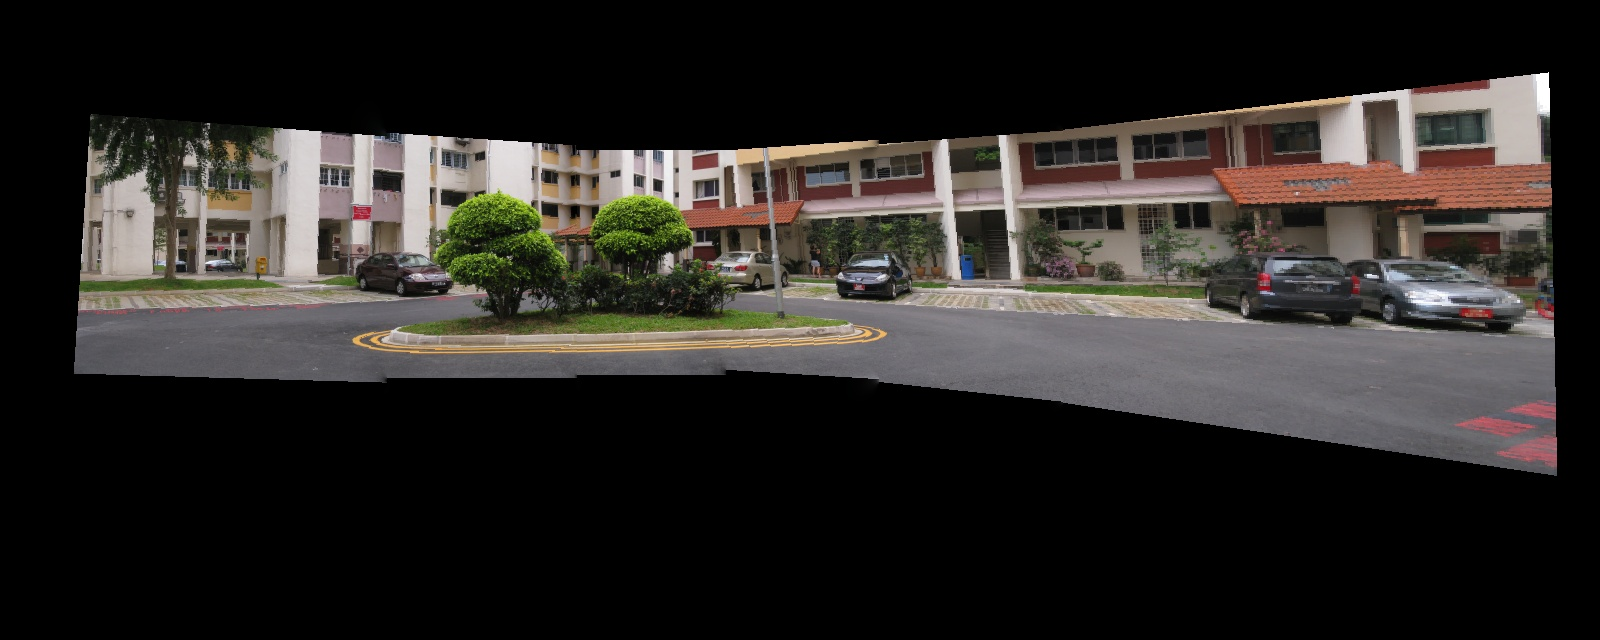
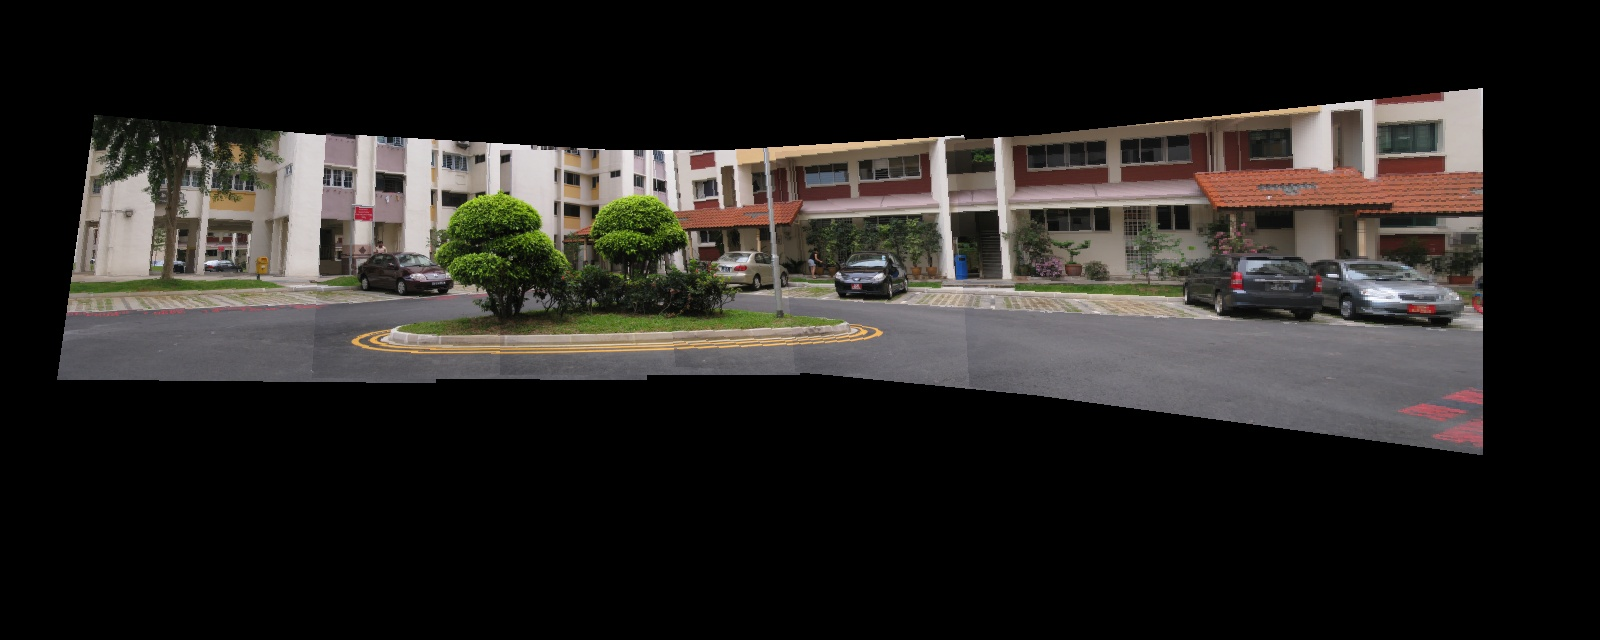
some commits

diff --git a/blend_and_stitch.py b/blend_and_stitch.py
@@ -1,104 +1,128 @@
 import cv2
 import numpy as np
 
+class stitcher():
+    def LaplacianBlend(self,images, masks, n=5):
+        """
+        Blending the input the input images using Laplacian Blending. Essentially, we reduce the 
+        the image to smaller sizes using OpenCV()'s pyrDown() and obtaining a gaussian pyramid.
+        Then upsample the images using pyrUp() and finding the difference of Gaussian and hence 
+        the laplacian pyramid. Image mask are used to find the partition and the Laplacian pyramid 
+        images are joined to get the desired result's laplacian pyramid. Next, the pyramid is upsampled 
+        again and add the Gaussians at each level to get the desired result.
 
-def LaplacianBlend(images, masks, n=5):
-    """
-    Blending the input the input images using Laplacian Blending. Essentially, we reduce the 
-    the image to smaller sizes using OpenCV()'s pyrDown() and obtaining a gaussian pyramid.
-    Then upsample the images using pyrUp() and finding the difference of Gaussian and hence 
-    the laplacian pyramid. Image mask are used to find the partition and the Laplacian pyramid 
-    images are joined to get the desired result's laplacian pyramid. Next, the pyramid is upsampled 
-    again and add the Gaussians at each level to get the desired result.
+        """
 
-    """
+        # Ensuring the input images are a multiple of 2^n where n is the number of 
+        # layers of the laplacian pyramid.
+        assert(images[0].shape[0] % pow(2, n) ==
+            0 and images[0].shape[1] % pow(2, n) == 0)
 
-    # Ensuring the input images are a multiple of 2^n where n is the number of 
-    # layers of the laplacian pyramid.
-    assert(images[0].shape[0] % pow(2, n) ==
-           0 and images[0].shape[1] % pow(2, n) == 0)
+        # Empty list of Gaussian pyramids and laplacian pyramids for each of the input images
+        g_pyramids = [None]*len(images)
+        l_pyramids = [None]*len(images)
 
-    # Empty list of Gaussian pyramids and laplacian pyramids for each of the input images
-    g_pyramids = [None]*len(images)
-    l_pyramids = [None]*len(images)
+        _, W, _ = images[0].shape
 
-    _, W, _ = images[0].shape
+        # Calculating pyramids of the images
+        for i in range(len(images)):
 
-    # Calculating pyramids of the images
-    for i in range(len(images)):
+            # Gaussian Pyramids
+            G = images[i].copy()
+            g_pyramids[i] = [G] #Storing the pyramids in a list to the corresponding image index
+            for _ in range(n):
+                G = cv2.pyrDown(G)
+                g_pyramids[i].append(np.float32(G))
 
-        # Gaussian Pyramids
-        G = images[i].copy()
-        g_pyramids[i] = [G] #Storing the pyramids in a list to the corresponding image index
-        for _ in range(n):
-            G = cv2.pyrDown(G)
-            g_pyramids[i].append(np.float32(G))
+            # Laplacian Pyramids
+            l_pyramids[i] = [G]  
+            for j in range(len(g_pyramids[i])-2, -1, -1):
+                G_up = cv2.pyrUp(G)
+                G = g_pyramids[i][j]
+                L = G - G_up # Difference of Gaussian (DOG)
+                l_pyramids[i].append(L) #Storing the pyramids in a list to the corresponding image index 
+        
+        # Making the masks boolean for further operations
+        for i in range(len(masks)):
+            masks[i] = masks[i].astype('bool')
+        
+        common_mask = masks[0].copy() #All masks will be iterated and will be combined to the common mask
+        common_image = images[0].copy() #All images will be iterated and will be combined to the common image
+        common_pyramids = [l_pyramids[0][i].copy()
+                            for i in range(len(l_pyramids[0]))] #All pyramids will be iterated and will be combined to the common pyr
 
-        # Laplacian Pyramids
-        l_pyramids[i] = [G]  
-        for j in range(len(g_pyramids[i])-2, -1, -1):
-            G_up = cv2.pyrUp(G)
-            G = g_pyramids[i][j]
-            L = G - G_up # Difference of Gaussian (DOG)
-            l_pyramids[i].append(L) #Storing the pyramids in a list to the corresponding image index 
+        final_image = None
+        # Iterating on the images.
+        for i in range(1, len(images)):
+
+            _, x1 = np.where(common_mask == 1)
+            _, x2 = np.where(masks[i] == 1)
+
+            #  Sorting the common image and the image to be added to left and right
+            if np.max(x1) > np.max(x2):
+                left_py = l_pyramids[i]
+                right_py = common_pyramids
+
+            else:
+                left_py = common_pyramids
+                right_py = l_pyramids[i]
+
+            # Finding the region of intersection between the common image and the current image
+            mask_intersection = np.bitwise_and(common_mask, masks[i])
+            if True in mask_intersection:
+                _, x = np.where(mask_intersection == 1)
+                # finding the coordinate for the verticle line which would helpin overlapping the left and the right image.
+                x_min, x_max = np.min(x), np.max(x)
+                midPt = ((x_max-x_min)/2 + x_min)/W
+                # Finally we add the pyramids
+                LS = []
+                for lap_L, lap_R in zip(left_py, right_py):
+                    _, cols, _ = lap_L.shape
+                    ls = np.hstack((lap_L[:, 0:int(midPt*cols)], lap_R[:, int(midPt*cols):]))
+                    LS.append(ls)
+            # If there is no intersection, simply add the images
+            else:
+                LS = []
+                for lap_L, lap_R in zip(left_py, right_py):
+                    _, cols, _ = lap_L.shape
+                    ls = lap_L + lap_R
+                    LS.append(ls)
+
+            # Reconstruct the image
+            final_image = LS[0]
+            for j in range(1, n+1):
+                final_image = cv2.pyrUp(final_image)
+                final_image = final_image + LS[j]
+                final_image[final_image>255] = 255; final_image[final_image<0] = 0 
+                cv2.waitKey(0)
+                
+            common_image = final_image
+
+            common_mask = np.sum(common_image.astype(bool), axis=2).astype(bool)
+            common_pyramids = LS
+
+        return np.uint8(final_image)
     
-    # Making the masks boolean for further operations
-    for i in range(len(masks)):
-        masks[i] = masks[i].astype('bool')
-    
-    common_mask = masks[0].copy() #All masks will be iterated and will be combined to the common mask
-    common_image = images[0].copy() #All images will be iterated and will be combined to the common image
-    common_pyramids = [l_pyramids[0][i].copy()
-                        for i in range(len(l_pyramids[0]))] #All pyramids will be iterated and will be combined to the common pyr
+    def stitchOnly(self, images, masks):
+        '''
+        Unlike laplacian blending, this doesn't blend, this only stitches
+        the images using the masks.
+        '''
+        for i in range(len(masks)):
+            masks[i] = masks[i].astype('bool')
+        
+        _, W, _ = images[0].shape
+        common_mask = masks[0].copy() #All masks will be iterated and will be combined to the common mask
+        common_image = images[0].copy() #All images will be iterated and will be combined to the common image
+        for i in range(len(images)):
+            mask_intersection = np.bitwise_and(common_mask, masks[i])
+            if True in mask_intersection:                
+                c = images[i]!=0
+                # k = common_image.copy()
+                common_image[c] = images[i][c]
+            # If there is no intersection, simply add the images
+            else:
+                common_image = common_image+images[i]
 
-    final_image = None
-    # Iterating on the images.
-    for i in range(1, len(images)):
-
-        _, x1 = np.where(common_mask == 1)
-        _, x2 = np.where(masks[i] == 1)
-
-        #  Sorting the common image and the image to be added to left and right
-        if np.max(x1) > np.max(x2):
-            left_py = l_pyramids[i]
-            right_py = common_pyramids
-
-        else:
-            left_py = common_pyramids
-            right_py = l_pyramids[i]
-
-        # Finding the region of intersection between the common image and the current image
-        mask_intersection = np.bitwise_and(common_mask, masks[i])
-        if True in mask_intersection:
-            _, x = np.where(mask_intersection == 1)
-            # finding the coordinate for the verticle line which would helpin overlapping the left and the right image.
-            x_min, x_max = np.min(x), np.max(x)
-            midPt = ((x_max-x_min)/2 + x_min)/W
-            # Finally we add the pyramids
-            LS = []
-            for lap_L, lap_R in zip(left_py, right_py):
-                _, cols, _ = lap_L.shape
-                ls = np.hstack((lap_L[:, 0:int(midPt*cols)], lap_R[:, int(midPt*cols):]))
-                LS.append(ls)
-        # If there is no intersection, simply add the images
-        else:
-            LS = []
-            for lap_L, lap_R in zip(left_py, right_py):
-                _, cols, _ = lap_L.shape
-                ls = lap_L + lap_R
-                LS.append(ls)
-
-        # Reconstruct the image
-        final_image = LS[0]
-        for j in range(1, n+1):
-            final_image = cv2.pyrUp(final_image)
-            final_image = final_image + LS[j]
-            final_image[final_image>255] = 255; final_image[final_image<0] = 0 
-            cv2.waitKey(0)
-            
-        common_image = final_image
-
-        common_mask = np.sum(common_image.astype(bool), axis=2).astype(bool)
-        common_pyramids = LS
-
-    return np.uint8(final_image)
+            common_mask = np.sum(common_image.astype(bool), axis=2).astype(bool)
+        return common_image

diff --git a/main.py b/main.py
@@ -26,7 +26,7 @@ import random
 
 from homography import homographyRansac
 from Warp import Warp
-from blend_and_stitch import LaplacianBlend
+from blend_and_stitch import stitcher
 
 class panaroma_stitching():    
     def __init__(self):
@@ -36,7 +36,7 @@ class panaroma_stitching():
         self.warp_images = []
         self.warp_mask = []
         self.inbuilt_CV = 0
-    
+        self.blendON = 1 #to use laplacian blend.... keep it ON!
     # Finding the common features between the two images, mapping the features, 
     # getting the homography and warping the required images
     def map2imgs(self, images):
@@ -86,9 +86,9 @@ class panaroma_stitching():
             ptsB = np.float32([kpsB[i] for (i, _) in matches])
             # Calling the homography class
             reprojThresh =4
-            homographyFunc = homographyRansac(reprojThresh,1000)
             # Obtaining the homography matrix
             if not self.inbuilt_CV:
+                homographyFunc = homographyRansac(reprojThresh,1000)
                 H= homographyFunc.getHomography(ptsA, ptsB)
             else:
                 H,_ = cv2.findHomography(ptsA, ptsB, cv2.RANSAC, reprojThresh)
@@ -138,14 +138,19 @@ class panaroma_stitching():
             temp_mid_image = temp_warp
         print("Transformations Applied....")
         print("Blending and Stitching....")
-        final = LaplacianBlend(self.warp_images,self.warp_mask)
+
+        stitchDscp = stitcher()
+        if self.blendON:
+            final = stitchDscp.LaplacianBlend(self.warp_images,self.warp_mask, n=5)
+        else:
+            final = stitchDscp.stitchOnly(self.warp_images,self.warp_mask)
         cv2.imshow("stitch",final)        
         cv2.waitKey(0)
         return final
         
 
 # image in the dataset must be in order from left to right
-Datasets = ["I1","I4","I5"]
+Datasets = ["I1"]
 for Dataset in Datasets:
     print("Stitching Dataset : ", Dataset)
     Path = "Dataset/"+Dataset
@@ -160,8 +165,8 @@ for Dataset in Datasets:
         images[i] = imutils.resize(images[i], width=300)
 
     images = images[:]
-    stitcher = panaroma_stitching()
-    result = stitcher.MultiStitch(images)
+    panoStitch = panaroma_stitching()
+    result = panoStitch.MultiStitch(images)
     print("========>Done! Final Image Saved in Outputs Dir!\n\n")
     if os.path.exists("Outputs/"+Dataset):
         shutil.rmtree("Outputs/"+Dataset)
